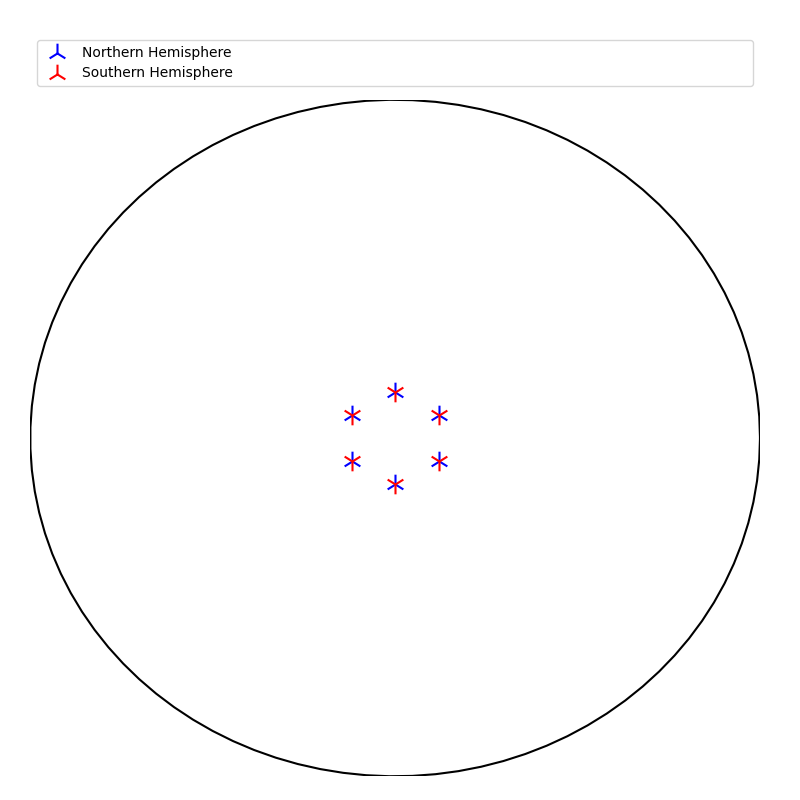
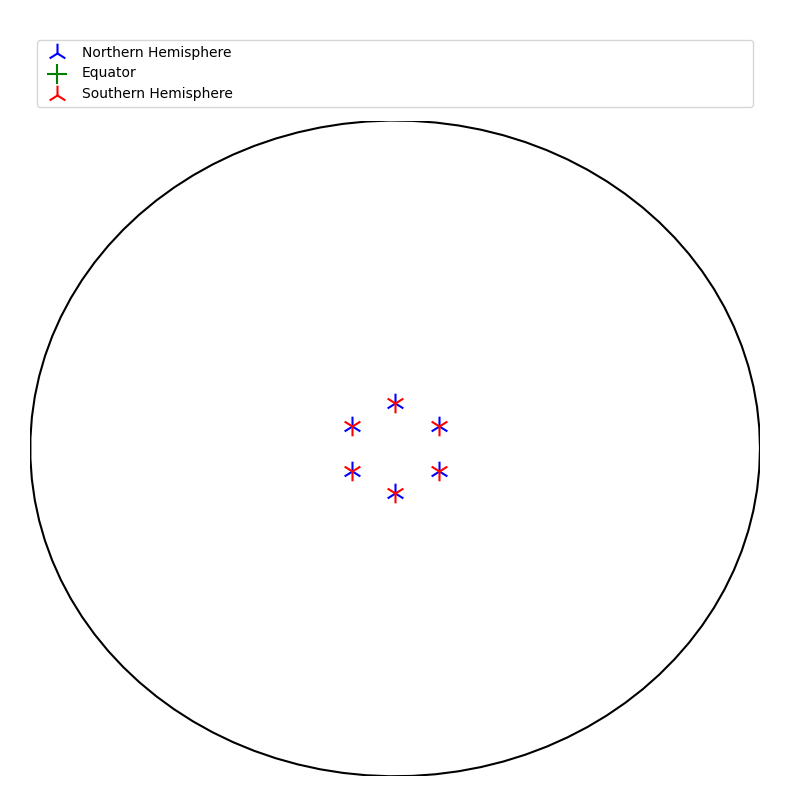
added equator point

diff --git a/PyCrystallography.py b/PyCrystallography.py
@@ -4,13 +4,13 @@ import numpy as np
 # symmetry
 #########################################
 
-def identify_fold_symmetry(n_points,s_points):
+def identify_fold_symmetry(n_points,e_points,s_points):
     """
     going to be a function that check the circle of which a point lies  on stereo proj  on to count all other points on that circle and return that as th en fold symm
     if only one point.
     """
     nfold_results = []
-    for points in [n_points,s_points]:
+    for points in [n_points,e_points,s_points]:
         if points == n_points:
             print('\nN-hemi {} points'.format(len(points)))
         else:
@@ -484,6 +484,7 @@ def Stereographic_projection(points,r,name):
     y_ = []
 
     n_points = []
+    e_points = []
     s_points = []
 
     import matplotlib.pyplot as plt
@@ -500,6 +501,11 @@ def Stereographic_projection(points,r,name):
             y_.append(y[i]/(r+z[i])) 
             n_points.append([x_[i],y_[i]])
             plt.scatter(x_[i],y_[i],marker='2',label='N',c='blue',s=200)
+        elif z[i] == 0:
+            x_.append(x[i]/(r+z[i]))
+            y_.append(y[i]/(r+z[i])) 
+            e_points.append([x_[i],y_[i]])
+            plt.scatter(x_[i],y_[i],marker='+',label='E',c='green',s=200)
         else:
             x_.append(x[i]/(r-z[i]))
             y_.append(y[i]/(r-z[i]))
@@ -515,10 +521,11 @@ def Stereographic_projection(points,r,name):
     yc = (r+pos)*np.sin(theta)
 
     ## sort leg
-    north = plt.scatter([],[],marker='2',label='Northern Hemisphere',c='blue',s=200)
-    south = plt.scatter([],[],marker='2',label='Southern Hemisphere',c='r',s=200)
+    north   = plt.scatter([],[],marker='2',label='Northern Hemisphere',c='blue',s=200)
+    equator = plt.scatter([],[],marker='+',label='Equator',c='green',s=200)
+    south   = plt.scatter([],[],marker='2',label='Southern Hemisphere',c='r',s=200)
 
-    plt.legend(handles=[north,south],bbox_to_anchor=(0., 1.01, 1., .101), loc='lower left',
+    plt.legend(handles=[north,equator,south],bbox_to_anchor=(0., 1.01, 1., .101), loc='lower left',
          mode="expand")
     
     plt.plot(xc,yc,c='k')
@@ -529,4 +536,4 @@ def Stereographic_projection(points,r,name):
 
 
     plt.savefig('Images/{}.png'.format(name))
-    return n_points, s_points
+    return n_points, e_points, s_points

diff --git a/main.py b/main.py
@@ -395,8 +395,8 @@ def make_all_stereo_gifs():
 # make_all_structure_gifs()
 # make_all_operations_gifs()
 # make_all_shape_gifs()
-# make_all_face_norm_gifs()
-make_all_stereos()
+make_all_face_norm_gifs()
+# make_all_stereos()
 # make_all_stereo_gifs()
 
 fig = plt.figure(0,figsize=[8,8])
@@ -407,7 +407,7 @@ faces=biprismid(ax,3,1,0.5,5)
 points=normal_points(ax,faces,5)
 #print(points)
 
-ns,ss=Stereographic_projection(points,3,'test')
+ns,es,ss=Stereographic_projection(points,3,'test')
 #print(ns,ss)
-identify_fold_symmetry(ns,ss)
-#plt.show()
+identify_fold_symmetry(ns,es,ss)
+plt.show()

diff --git a/PyShapes.py b/PyShapes.py
@@ -29,6 +29,8 @@ def normal_points(ax,faces,r):
         
         if face_centre[2] > 0:
             COL ='blue'
+        elif face_centre[2] == 0:
+            COL ='green'
         else:
             COL='r'
 
